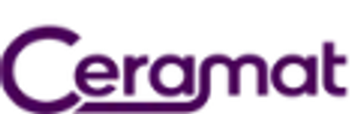
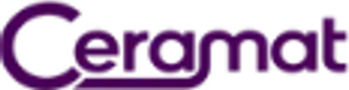
OHHH

diff --git a/web/src/app/startup-conclave/page.tsx b/web/src/app/startup-conclave/page.tsx
@@ -2,6 +2,7 @@ import type { Metadata } from "next";
 import Image from "next/image";
 import type { ReactNode } from "react";
 import { Reveal } from "@/components/Reveal";
+import { PartnerMarquee } from "@/components/PartnerMarquee";
 import {
   bankDetails,
   conclaveAccommodation,
@@ -102,52 +103,88 @@ export default function StartupConclavePage() {
   return (
     <>
       {/* HERO */}
-      <section className={`relative overflow-hidden ${DARK} text-white`}>
-        <div aria-hidden className="bg-dot-grid pointer-events-none absolute inset-0 opacity-60" />
-        <div
+      <section className={`relative isolate overflow-hidden ${DARK} text-white`}>
+        <div aria-hidden className="bg-dot-grid pointer-events-none absolute inset-0 opacity-50" />
+        <div aria-hidden className="animate-orb-a pointer-events-none absolute -left-40 top-24 h-[28rem] w-[28rem] rounded-full bg-red/50 blur-[120px]" />
+        <div aria-hidden className="animate-orb-b pointer-events-none absolute -right-32 bottom-0 h-[26rem] w-[26rem] rounded-full bg-[#ff4d67]/35 blur-[120px]" />
+        <div aria-hidden className="pointer-events-none absolute inset-x-0 bottom-0 h-40 bg-gradient-to-t from-[#0f0a0e] to-transparent" />
+
+        {/* Floating molecule network, decorative */}
+        <svg
           aria-hidden
-          className="pointer-events-none absolute inset-0 bg-[radial-gradient(60%_70%_at_85%_20%,rgba(184,22,43,0.55),transparent_65%),radial-gradient(50%_60%_at_0%_100%,rgba(184,22,43,0.35),transparent_60%)]"
-        />
+          viewBox="0 0 300 300"
+          fill="none"
+          className="animate-floaty pointer-events-none absolute right-[4%] top-56 hidden h-72 w-72 opacity-40 lg:block"
+        >
+          {[
+            [150, 40, 60, 110], [150, 40, 240, 110], [60, 110, 90, 210], [240, 110, 210, 210],
+            [90, 210, 210, 210], [60, 110, 240, 110], [150, 40, 150, 150], [150, 150, 90, 210], [150, 150, 210, 210],
+          ].map(([x1, y1, x2, y2], i) => (
+            <line key={i} x1={x1} y1={y1} x2={x2} y2={y2} stroke="#ff8a9a" strokeOpacity="0.5" strokeWidth="1.5" />
+          ))}
+          {[[150, 40, 9], [60, 110, 7], [240, 110, 7], [90, 210, 8], [210, 210, 8], [150, 150, 11]].map(([cx, cy, r], i) => (
+            <circle key={i} cx={cx} cy={cy} r={r} fill={i === 5 ? "#ff4d67" : "#fff"} className="animate-pulse" style={{ animationDelay: `${i * 0.3}s` }} />
+          ))}
+        </svg>
         <svg
           aria-hidden
           viewBox="0 0 400 400"
           fill="none"
-          className="animate-floaty pointer-events-none absolute -left-24 top-20 h-96 w-96 opacity-[0.12]"
+          className="animate-floaty pointer-events-none absolute -left-24 top-48 hidden h-96 w-96 opacity-[0.14] lg:block"
         >
           <path d="M140 20c0 60 120 60 120 120s-120 60-120 120s120 60 120 120" stroke="#fff" strokeWidth="5" strokeLinecap="round" />
           <path d="M260 20c0 60-120 60-120 120s120 60 120 120s-120 60-120 120" stroke="#ff8a9a" strokeWidth="5" strokeLinecap="round" />
         </svg>
 
-        <div className="relative mx-auto grid max-w-6xl gap-12 px-6 py-14 sm:px-8 sm:py-20 ">
-          <div className="hero-in flex flex-col gap-6">
-            <div className="flex flex-wrap items-center gap-3">
-              <span className="inline-flex items-center gap-2 rounded-full bg-red px-3.5 py-1.5 text-xs font-bold uppercase tracking-[0.16em]">
-                <span className="h-1.5 w-1.5 animate-pulse rounded-full bg-white" aria-hidden />
+        {/* Top floating partner slider */}
+        <div className="relative border-b border-white/10 bg-white/[0.03] pt-5 backdrop-blur-sm">
+          <div className="flex items-center justify-center gap-3 text-[11px] font-bold uppercase tracking-[0.28em] text-white/60">
+            <span className="h-px w-10 bg-gradient-to-r from-transparent to-[#ff8a9a]" aria-hidden />
+            Our industry partners
+            <span className="h-px w-10 bg-gradient-to-l from-transparent to-[#ff8a9a]" aria-hidden />
+          </div>
+          <PartnerMarquee />
+        </div>
+
+        <div className="relative mx-auto max-w-5xl px-6 pb-20 pt-14 text-center sm:px-8 sm:pb-28 sm:pt-20">
+          <div className="hero-in flex flex-col items-center gap-7">
+            <div className="flex flex-wrap items-center justify-center gap-3">
+              <span className="inline-flex items-center gap-2 rounded-full bg-red px-3.5 py-1.5 text-xs font-bold uppercase tracking-[0.16em] shadow-[0_0_30px_rgba(255,77,103,0.6)]">
+                <span className="relative flex h-2 w-2" aria-hidden>
+                  <span className="absolute inline-flex h-full w-full animate-ping rounded-full bg-white opacity-75" />
+                  <span className="relative inline-flex h-2 w-2 rounded-full bg-white" />
+                </span>
                 Registrations open
               </span>
-              <span className="text-sm font-semibold text-white/70">Supported by BIRAC · Govt. of India</span>
+              <span className="rounded-full border border-white/15 bg-white/5 px-3.5 py-1.5 text-xs font-semibold text-white/80">
+                Supported by BIRAC · Govt. of India
+              </span>
             </div>
 
-            <h1 className="font-heading text-[40px] font-bold leading-[1.02] tracking-tight sm:text-[64px]">
-              Biotech
-              <br />
-              <span className="bg-gradient-to-r from-[#ff6b80] via-[#ff9aa8] to-white bg-clip-text text-transparent">
+            <h1 className="font-heading text-[44px] font-bold leading-[1] tracking-tight sm:text-[84px]">
+              Biotech{" "}
+              <span className="text-shimmer bg-[linear-gradient(110deg,#ff4d67,45%,#ffffff,55%,#ff8a9a)] bg-[length:250%_100%] bg-clip-text text-transparent">
                 Startup Conclave
               </span>
               <br />
-              <span className="text-white/90">&amp; Workshop 2026</span>
+              <span className="text-white/90">&amp; Workshop </span>
+              <span className="text-stroke text-transparent">2026</span>
             </h1>
 
-            <p className="max-w-xl text-lg leading-relaxed text-white/75 sm:text-xl">
+            <p className="max-w-2xl text-lg leading-relaxed text-white/70 sm:text-xl">
               <span className="font-semibold text-white">{s.tagline}.</span> {s.pillars.join(" · ")}.
             </p>
 
-            <div className="flex flex-wrap gap-x-6 gap-y-2 text-base font-semibold">
-              <span className="flex items-center gap-2"><CalendarIcon size={20} className="text-[#ff8a9a]" /> {s.dates}</span>
-              <span className="flex items-center gap-2"><PinIcon size={20} className="text-[#ff8a9a]" /> {s.venue}</span>
+            <div className="flex flex-wrap justify-center gap-3 text-base font-semibold">
+              <span className="flex items-center gap-2 rounded-xl border border-white/10 bg-white/5 px-4 py-2.5 backdrop-blur">
+                <CalendarIcon size={20} className="text-[#ff8a9a]" /> {s.dates}
+              </span>
+              <span className="flex items-center gap-2 rounded-xl border border-white/10 bg-white/5 px-4 py-2.5 backdrop-blur">
+                <PinIcon size={20} className="text-[#ff8a9a]" /> {s.venue}
+              </span>
             </div>
 
-            <div className="flex flex-wrap gap-3">
+            <div className="flex flex-wrap justify-center gap-3">
               <CtaLink href={conclaveForm.href}>
                 Register for the Conclave <ArrowRightIcon size={20} />
               </CtaLink>
@@ -155,18 +192,9 @@ export default function StartupConclavePage() {
                 Free CABHBE-2026 pass
               </CtaLink>
             </div>
-          </div>
 
-        </div>
-
-        {/* Partner strip */}
-        <div className="relative border-t border-white/10 bg-white">
-          <div className="mx-auto flex max-w-6xl flex-col items-center gap-4 px-6 py-6 sm:flex-row sm:gap-10 sm:px-8">
-            <div className="shrink-0 text-xs font-bold uppercase tracking-[0.2em] text-ink-soft">Industry partners</div>
-            <div className="flex flex-1 flex-wrap items-center justify-center gap-x-12 gap-y-4 sm:justify-around">
-              {conclavePartners.map((p) => (
-                <Image key={p.name} src={p.logo} alt={p.name} width={p.width} height={p.height} className="h-12 w-auto sm:h-14" />
-              ))}
+            <div className="mt-2 text-sm text-white/50">
+              Organized by <span className="font-semibold text-white/80">{s.organizer}</span> · {s.organizerDetail}
             </div>
           </div>
         </div>
@@ -201,7 +229,7 @@ export default function StartupConclavePage() {
               return (
                 <div
                   key={h.title}
-                  className="group relative overflow-hidden rounded-2xl border border-border bg-white p-6 transition-all duration-300 hover:-translate-y-1 hover:border-red/40 hover:shadow-[0_24px_50px_-24px_rgba(184,22,43,0.45)]"
+                  className="glow-card group relative overflow-hidden rounded-2xl border border-border bg-white p-6 transition-all duration-300 hover:-translate-y-1.5 hover:shadow-[0_30px_60px_-24px_rgba(184,22,43,0.5)]"
                 >
                   <span className="absolute right-4 top-3 font-heading text-5xl font-bold text-red/[0.07]" aria-hidden>
                     0{i + 1}
@@ -259,7 +287,7 @@ export default function StartupConclavePage() {
           {conclaveArrangements.map((a, i) => (
             <div
               key={a.title}
-              className="relative rounded-2xl border border-border bg-white p-6 pl-7 transition hover:shadow-[0_20px_40px_-24px_rgba(20,20,22,0.3)]"
+              className="glow-card relative rounded-2xl border border-border bg-white p-6 pl-7 transition-all duration-300 hover:-translate-y-1.5 hover:shadow-[0_30px_60px_-24px_rgba(184,22,43,0.45)]"
             >
               <span className="absolute left-0 top-6 h-10 w-1 rounded-r-full bg-red" aria-hidden />
               <div className="text-xs font-bold tracking-[0.18em] text-red">{String(i + 1).padStart(2, "0")}</div>

diff --git a/web/src/components/PartnerMarquee.tsx b/web/src/components/PartnerMarquee.tsx
@@ -1,0 +1,44 @@
+import Image from "next/image";
+import { conclavePartners } from "@/content";
+
+/**
+ * Infinite, floating logo slider for the conclave's industry partners.
+ * Scrolls continuously, pauses on hover, and lifts the logo under the pointer.
+ * The track holds the list twice so the -50% loop is seamless.
+ */
+export function PartnerMarquee() {
+  // Repeat so the track is wider than any screen even with only a few partners.
+  const half = Array.from({ length: 4 }, () => conclavePartners).flat();
+  const track = [...half, ...half];
+
+  return (
+    <div className="group/marquee relative overflow-hidden py-6 [mask-image:linear-gradient(90deg,transparent,#000_8%,#000_92%,transparent)]">
+      <ul style={{ animationDuration: "45s" }} className="animate-marquee flex w-max items-center gap-5 group-hover/marquee:[animation-play-state:paused]">
+        {track.map((p, i) => {
+          const card = (
+            <div className="relative grid h-24 w-60 place-items-center rounded-2xl border border-white/60 bg-white px-6 shadow-[0_18px_40px_-20px_rgba(0,0,0,0.6)] transition-all duration-300 ease-out hover:-translate-y-2 hover:scale-[1.06] hover:shadow-[0_28px_60px_-18px_rgba(255,77,103,0.75)] sm:h-28 sm:w-72">
+              <Image
+                src={p.logo}
+                alt={i < conclavePartners.length ? p.name : ""}
+                width={p.width}
+                height={p.height}
+                className={`h-auto max-h-16 w-auto max-w-full object-contain sm:max-h-[72px] ${p.fit}`}
+              />
+            </div>
+          );
+          return (
+            <li key={i} aria-hidden={i >= conclavePartners.length || undefined} className="shrink-0">
+              {p.url ? (
+                <a href={p.url} target="_blank" rel="noopener" tabIndex={i >= conclavePartners.length ? -1 : undefined}>
+                  {card}
+                </a>
+              ) : (
+                card
+              )}
+            </li>
+          );
+        })}
+      </ul>
+    </div>
+  );
+}

diff --git a/web/src/app/globals.css b/web/src/app/globals.css
@@ -450,3 +450,30 @@ body {
   background-image: radial-gradient(rgba(255, 255, 255, 0.12) 1px, transparent 1px);
   background-size: 22px 22px;
 }
+
+@keyframes shimmer { from { background-position: 100% 0; } to { background-position: -150% 0; } }
+.text-shimmer { animation: shimmer 5s ease-in-out infinite; }
+.text-stroke { -webkit-text-stroke: 2px rgba(255, 255, 255, 0.85); }
+
+@keyframes orb-a { 0%, 100% { transform: translate(0, 0) scale(1); } 50% { transform: translate(80px, -40px) scale(1.15); } }
+@keyframes orb-b { 0%, 100% { transform: translate(0, 0) scale(1); } 50% { transform: translate(-70px, 30px) scale(1.1); } }
+.animate-orb-a { animation: orb-a 14s ease-in-out infinite; }
+.animate-orb-b { animation: orb-b 17s ease-in-out infinite; }
+
+/* Card with a crimson gradient border that lights up on hover. */
+.glow-card { position: relative; }
+.glow-card::before {
+  content: "";
+  position: absolute;
+  inset: -1px;
+  border-radius: inherit;
+  padding: 1.5px;
+  background: linear-gradient(135deg, #ff4d67, transparent 40%, transparent 60%, #b8162b);
+  -webkit-mask: linear-gradient(#000 0 0) content-box, linear-gradient(#000 0 0);
+  -webkit-mask-composite: xor;
+  mask-composite: exclude;
+  opacity: 0;
+  transition: opacity 0.3s;
+  pointer-events: none;
+}
+.glow-card:hover::before { opacity: 1; }

diff --git a/web/src/content/startup-conclave.ts b/web/src/content/startup-conclave.ts
@@ -147,7 +147,32 @@ export const conclaveStats = [
 
 // Industry partners sponsoring the conclave. Put the logo in public/images/startup/.
 export const conclavePartners = [
-  { name: "Panacea Biotec", logo: "/images/startup/panacea-biotec.png", width: 324, height: 210 },
-  { name: "Ceramat", logo: "/images/startup/ceramat.png", width: 360, height: 114 },
-  { name: "RR Animal Health Care Ltd.", logo: "/images/startup/rr-animal-health-care.png", width: 420, height: 192 },
+  {
+    name: "Panacea Biotec",
+    tagline: "Innovation in support of life",
+    logo: "/images/startup/panacea-biotec.png",
+    width: 800,
+    height: 388,
+    fit: "",
+    url: "https://www.panaceabiotec.com",
+  },
+  {
+    name: "Ceramat",
+    tagline: "Advanced bioceramics",
+    logo: "/images/startup/ceramat.png",
+    width: 349,
+    height: 90,
+    // Wide wordmark: shrink so it sits at the same visual weight as the others.
+    fit: "max-w-[78%]",
+    url: "",
+  },
+  {
+    name: "RR Animal Health Care Ltd.",
+    tagline: "Unique solutions for animal health",
+    logo: "/images/startup/rr-animal-health-care.png",
+    width: 318,
+    height: 109,
+    fit: "",
+    url: "https://rrahc.in",
+  },
 ];
